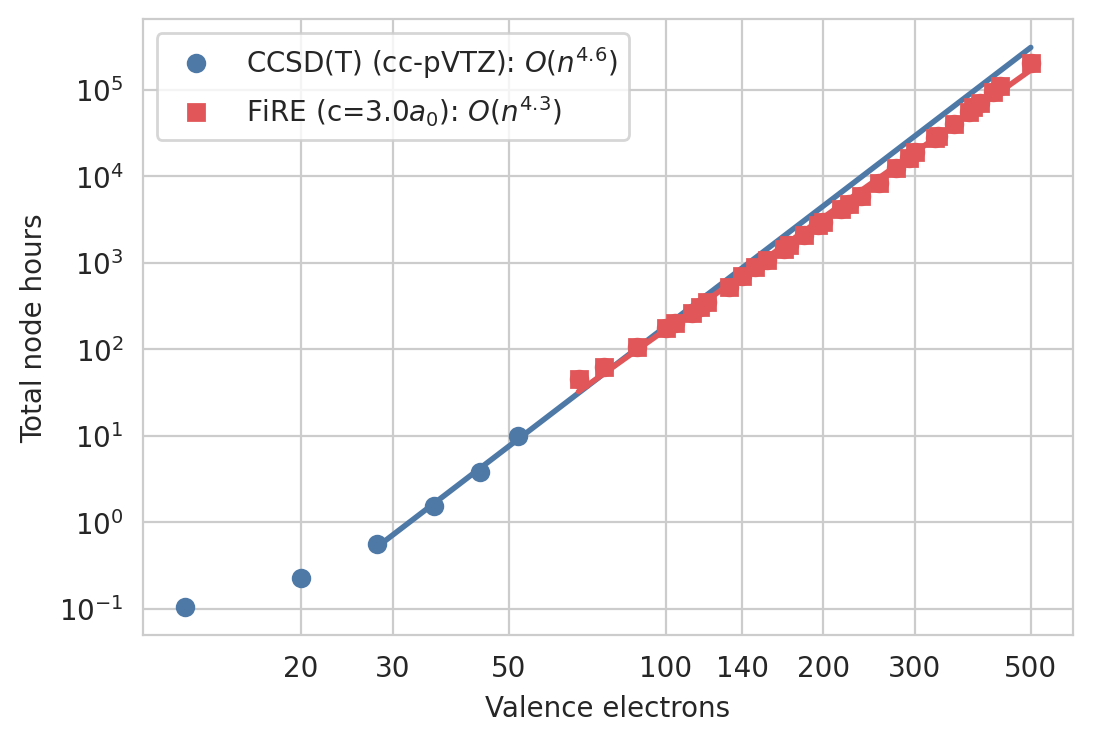
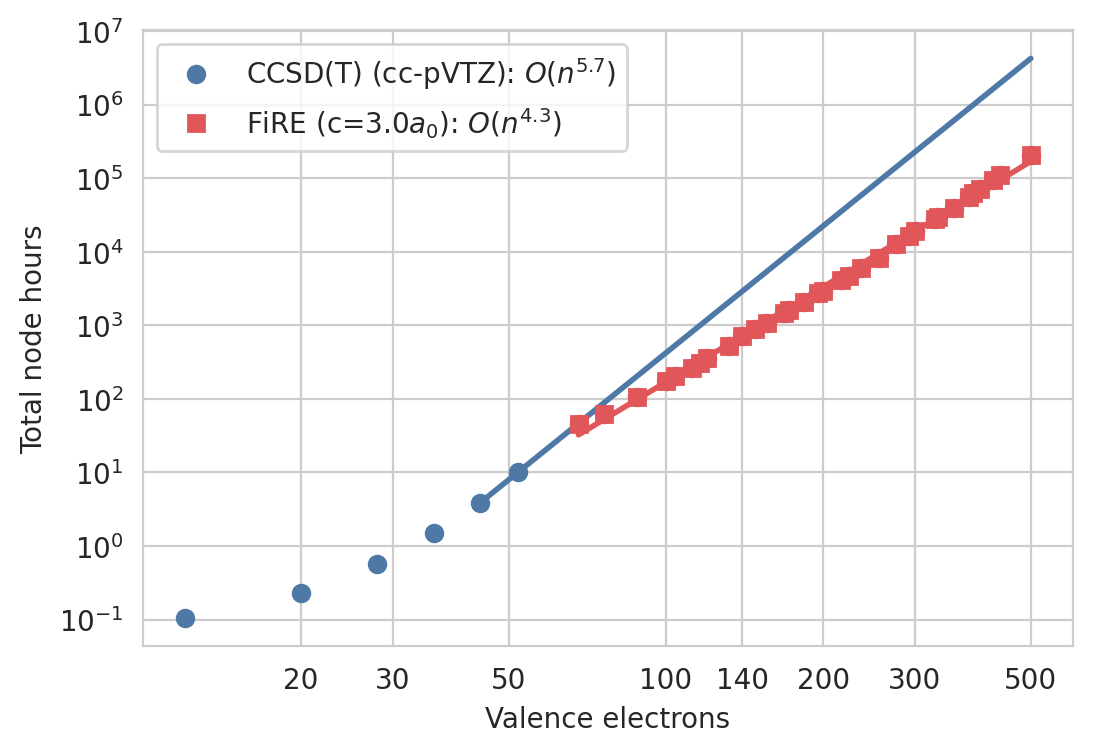
800GB orca runs OOM

diff --git a/src/sparse_wf/plot_scripts/orca_runtime/plot_orca_runtime.py b/src/sparse_wf/plot_scripts/orca_runtime/plot_orca_runtime.py
@@ -7,7 +7,7 @@ import numpy as np
 
 sns.set_style("whitegrid")
 
-N_EL_MIN_FOR_FIT = 28
+N_EL_MIN_FOR_FIT = 40
 BASIS_SET = "cc-pVTZ"
 FIRE_BATCH_SIZE = 512  # 1 node with 8 GPUs for 4096 total batch size
 NUM_STEPS_BASE_CASE = 100e3
